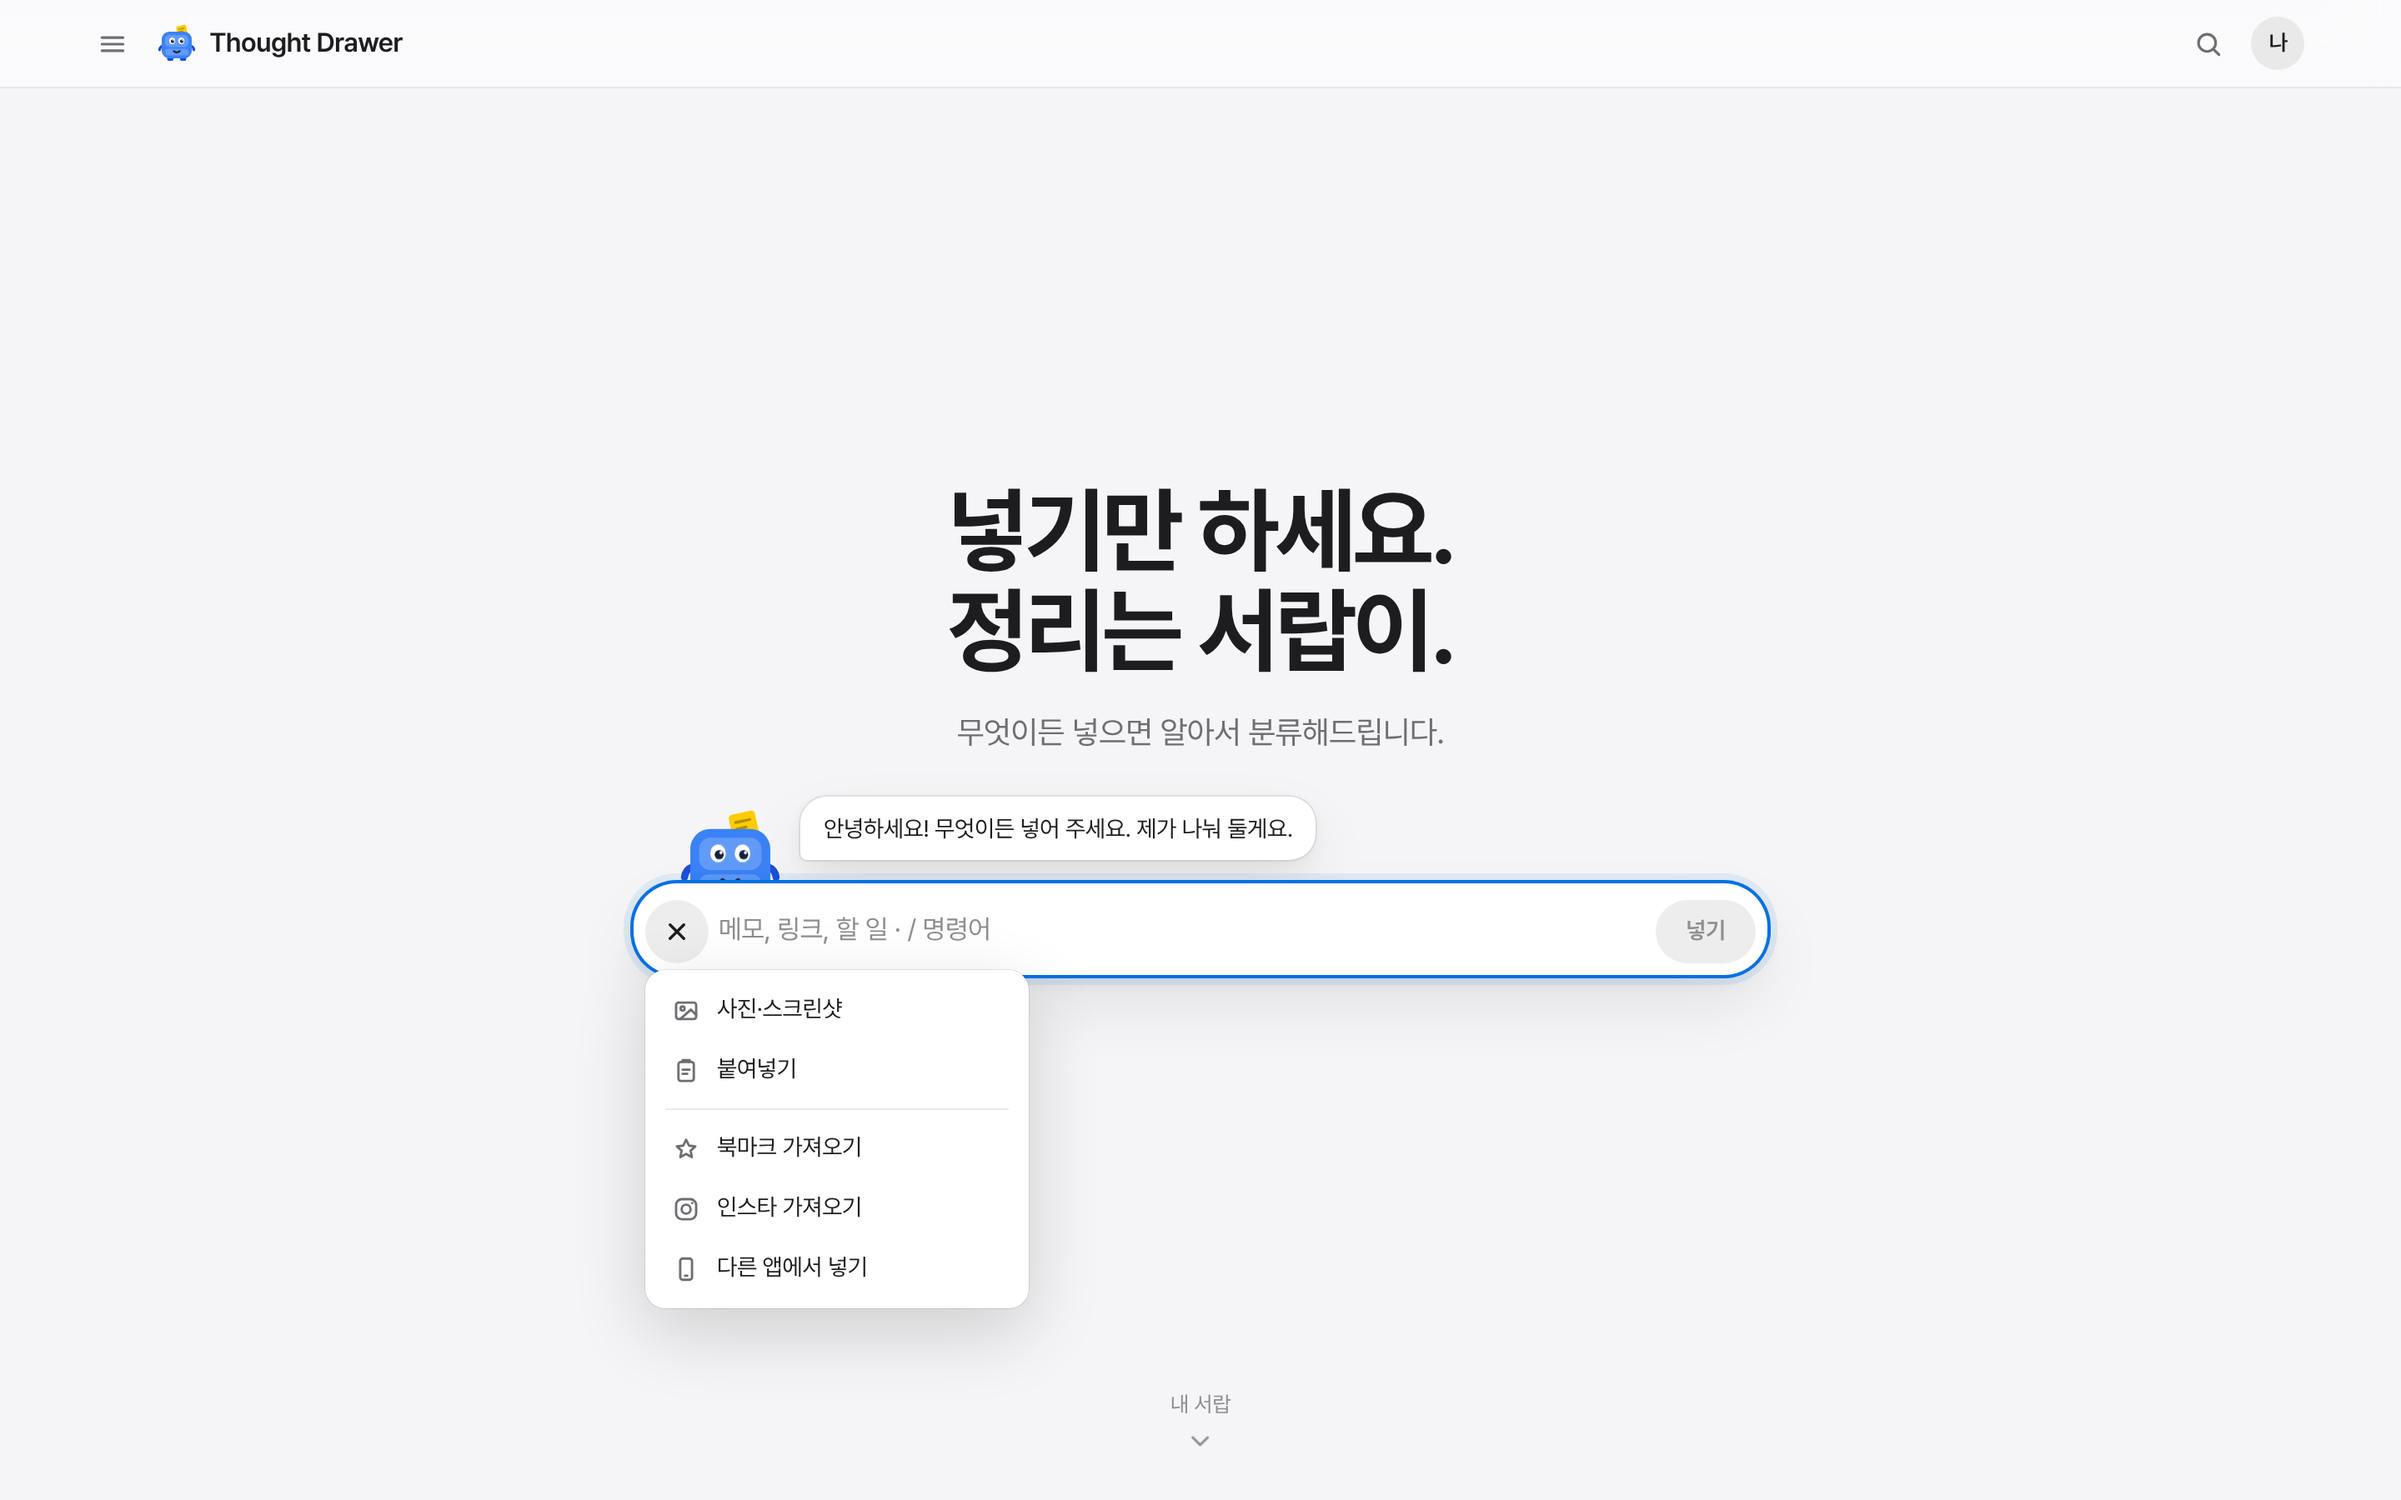
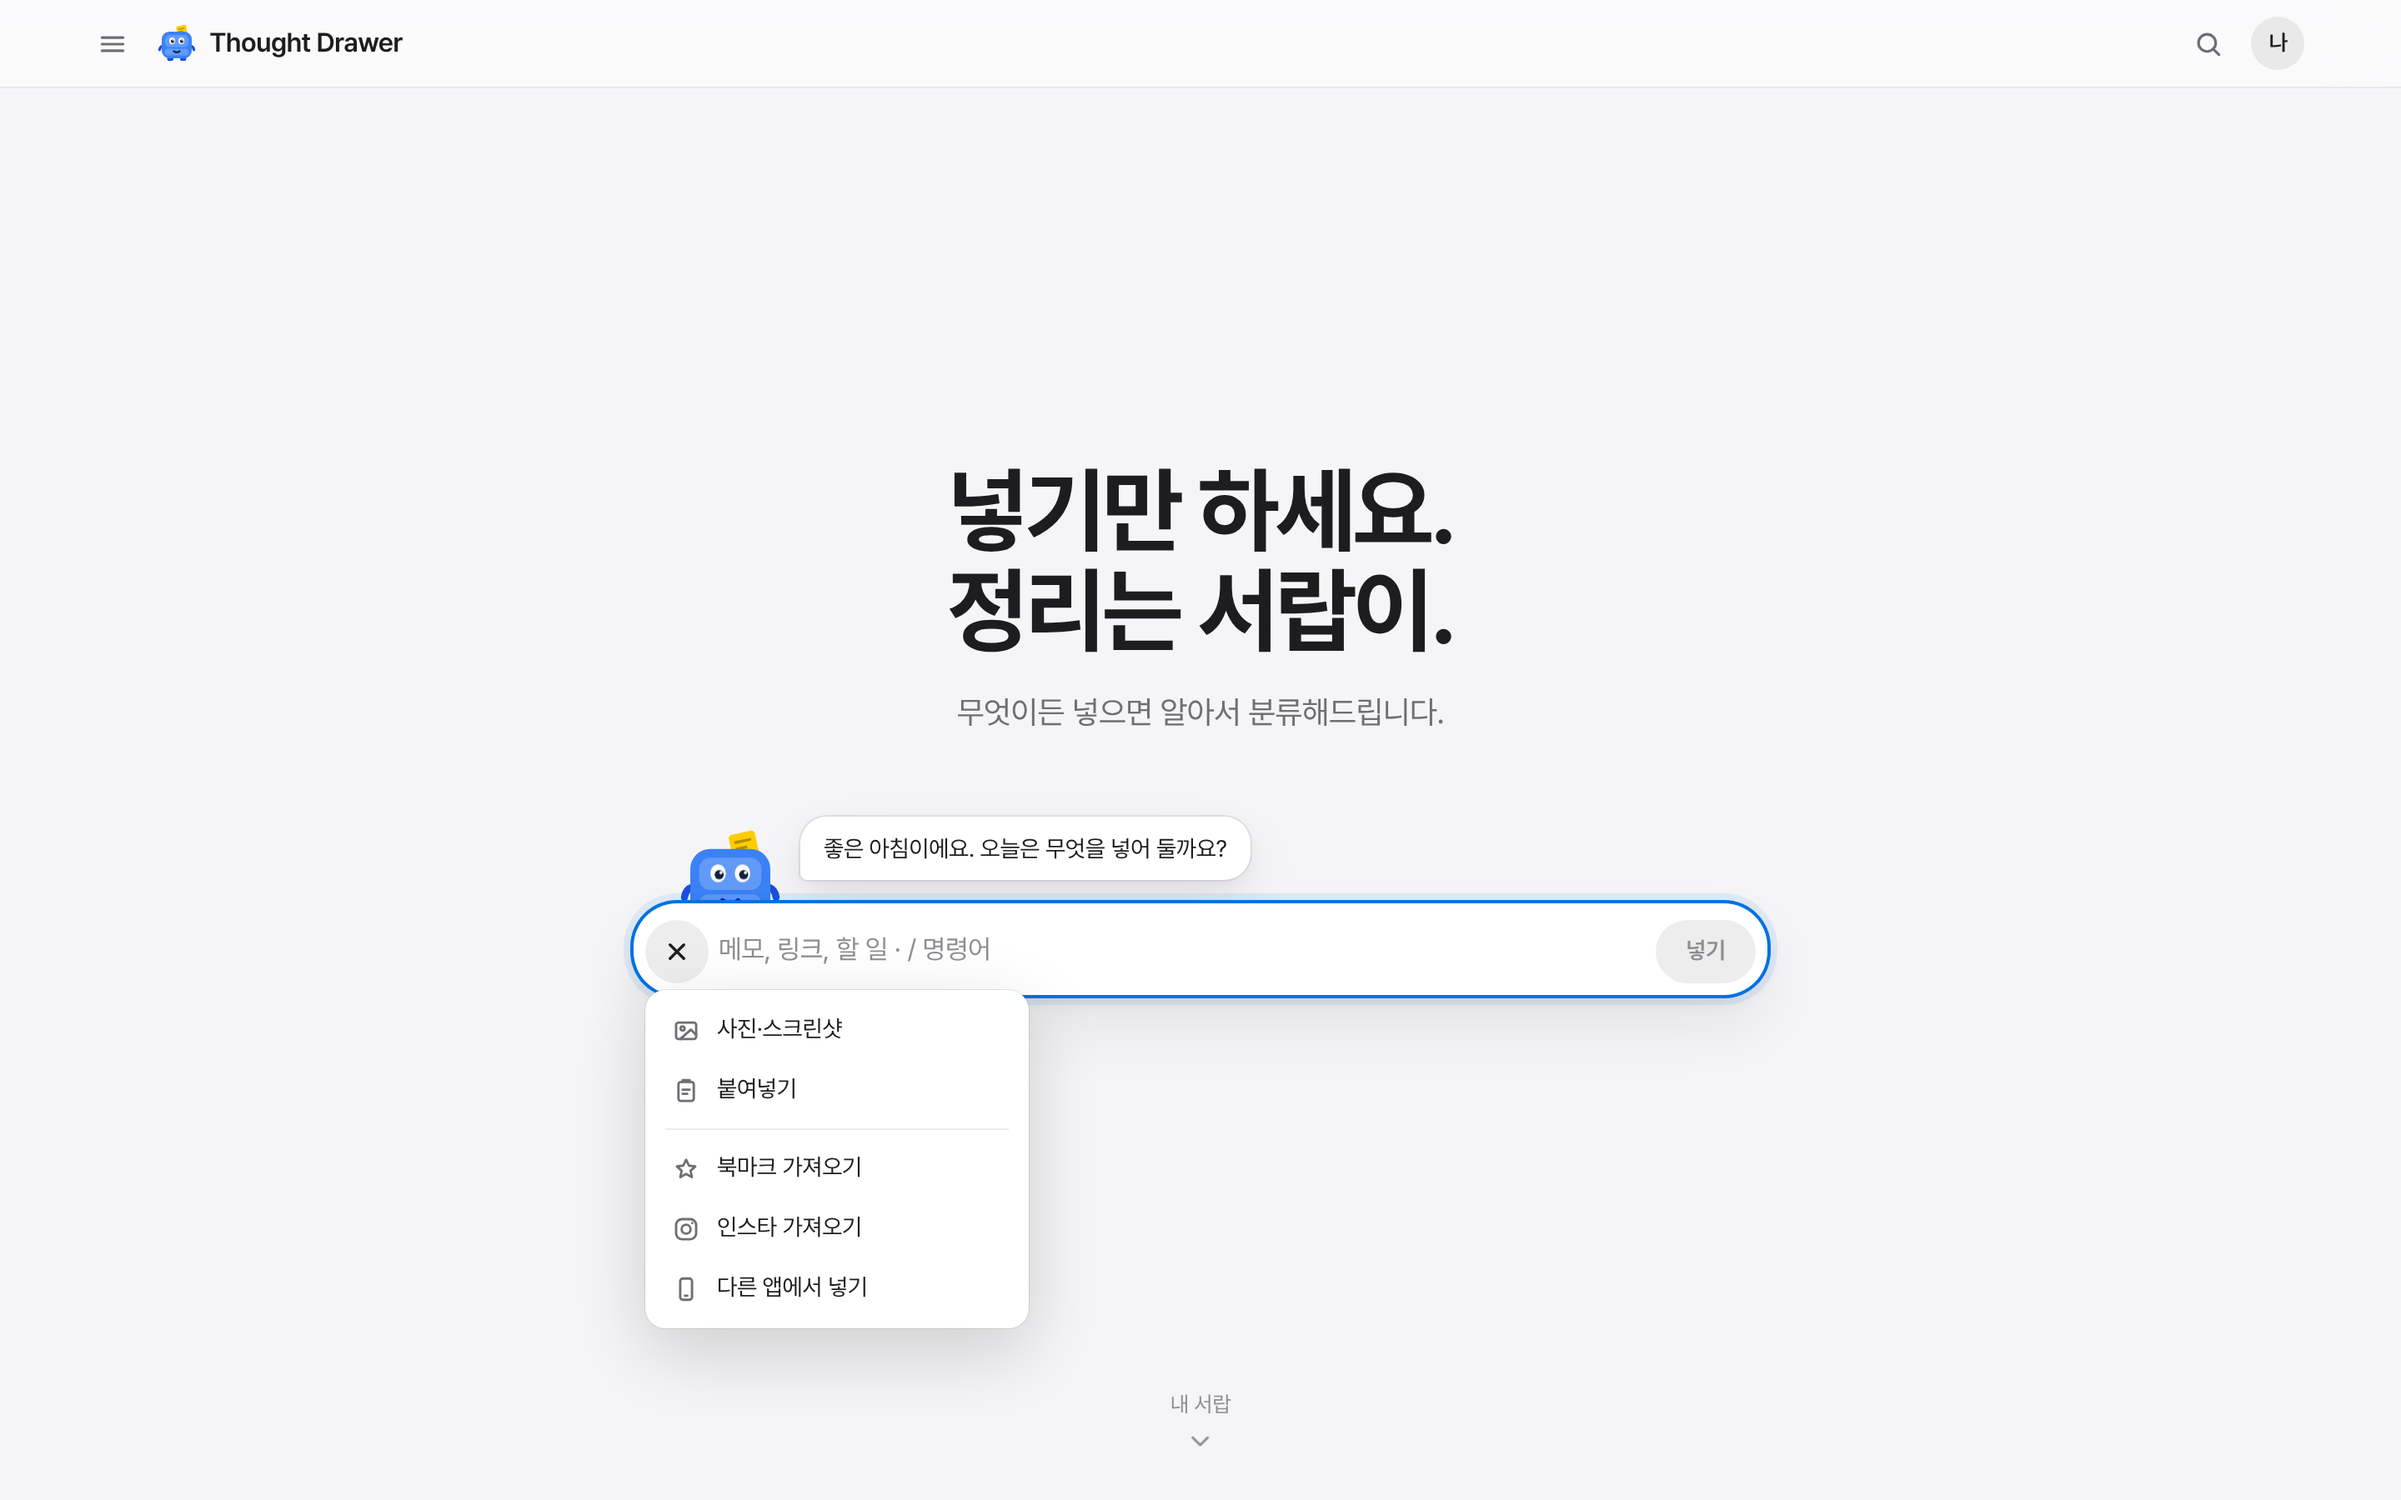
첫 화면 서랍이 말풍선이 소개 글에 닿지 않게 (폰·PC)
- 폰: 말풍선 글씨·여백을 조금 작게, 넣는 칸과 소개 글 사이를 더 띄움 (예전 폰 규칙이 뒤쪽 규칙에 덮여 안 먹던 것도 바로잡음)
- PC: 말풍선을 조금 넓게(한두 줄), 넣는 칸 위를 더 띄움
- 길어진 말풍선도 소개 글과 16px 넘게 떨어지는지 확인하는 시험 (360·390·1024·1440px)

Claude-Session: https://claude.ai/code/session_01NXaGNJyQVpQYUUX5tEWxav

Changed region(s): [[0.25, 0.5289, 0.75, 0.9022], [0.375, 0.3111, 0.625, 0.4978]]

diff --git a/css/app.css b/css/app.css
@@ -1097,3 +1097,15 @@ kbd { display: inline-grid; place-items: center; min-width: 20px; height: 20px; 
 .rn-from { color: var(--text-2); font-weight: 500; }
 .rn-at { flex: none; margin-left: auto; font-size: 12px; white-space: nowrap; }
 
+
+/* ---- 폰: 첫 화면 서랍이 말풍선이 위의 소개 글에 닿지 않게 (작게, 넣는 칸과 소개 글 사이를 조금 더) ---- */
+@media (max-width: 860px) {
+  .capbar { margin-top: 104px; }
+  .cm-bubble { margin-bottom: 26px; max-width: min(260px, calc(100vw - 132px)); padding: 6px 10px; border-radius: 14px 14px 14px 4px; font-size: 12.5px; line-height: 1.4; }
+}
+
+/* ---- PC: 서랍이 말풍선이 두세 줄이어도 위의 소개 글에 닿지 않게 ---- */
+@media (min-width: 861px) {
+  .capbar { margin-top: 100px; }
+  .cm-bubble { max-width: min(460px, 56vw); }
+}

diff --git a/index.html b/index.html
@@ -20,13 +20,13 @@
 <link rel="preconnect" href="https://fonts.googleapis.com">
 <link rel="preconnect" href="https://fonts.gstatic.com" crossorigin>
 <link rel="stylesheet" href="https://fonts.googleapis.com/css2?family=JetBrains+Mono:wght@400;500&family=Noto+Serif+KR:wght@400;600;700&display=swap">
-<link rel="stylesheet" href="css/app.css?v=44">
+<link rel="stylesheet" href="css/app.css?v=45">
 <script src="js/vendor/marked.min.js" defer></script>
 <script src="js/vendor/purify.min.js" defer></script>
 </head>
 <body>
 <div id="root"></div>
 <noscript>Thought Drawer는 자바스크립트가 켜져 있어야 동작해요.</noscript>
-<script type="module" src="js/main.js?v=44"></script>
+<script type="module" src="js/main.js?v=45"></script>
 </body>
 </html>

diff --git a/privacy.html b/privacy.html
@@ -6,7 +6,7 @@
 <title>개인정보처리방침 | Thought Drawer</title>
 <link rel="icon" href="icons/icon.svg" type="image/svg+xml">
 <link rel="stylesheet" href="https://cdn.jsdelivr.net/npm/pretendard@1.3.9/dist/web/variable/pretendardvariable-dynamic-subset.css">
-<link rel="stylesheet" href="css/app.css?v=44">
+<link rel="stylesheet" href="css/app.css?v=45">
 </head>
 <body>
 <main class="doc">

diff --git a/terms.html b/terms.html
@@ -6,7 +6,7 @@
 <title>서비스 약관 | Thought Drawer</title>
 <link rel="icon" href="icons/icon.svg" type="image/svg+xml">
 <link rel="stylesheet" href="https://cdn.jsdelivr.net/npm/pretendard@1.3.9/dist/web/variable/pretendardvariable-dynamic-subset.css">
-<link rel="stylesheet" href="css/app.css?v=44">
+<link rel="stylesheet" href="css/app.css?v=45">
 </head>
 <body>
 <main class="doc">
